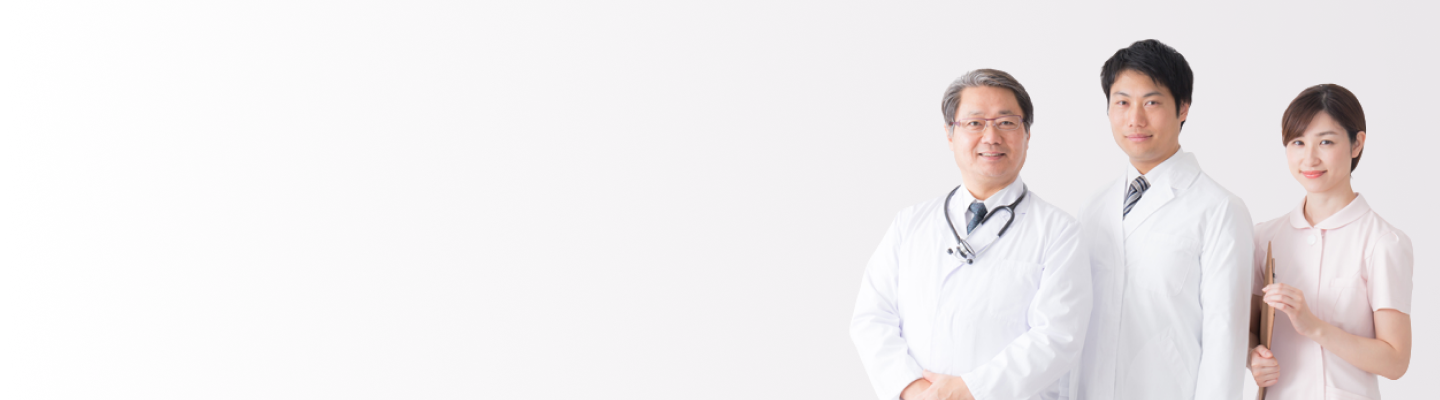
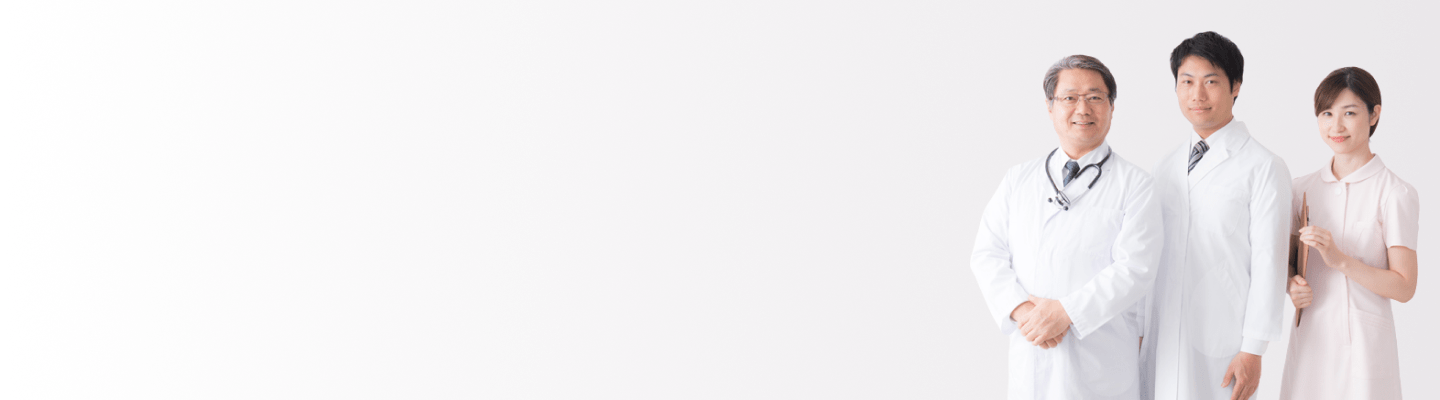
DRG-76248 [SA LP] - First round UAT UI fixes

Changed region(s): [[0.625, 0.06, 1.0, 1.0]]

diff --git a/apps/japan/src/app/components/our-promise/our-promise.tsx b/apps/japan/src/app/components/our-promise/our-promise.tsx
@@ -45,27 +45,29 @@ export function OurPromise() {
         {params.heading && (
           <h2 className="text-center mb-10 sm:text-xxl sm:leading-8 sm:mb-4 sm:font-black">{params.heading} </h2>
         )}
-        <section className="container flex justify-center max-w-6xl mx-auto sm:block">
-        {params?.image && (
-          <div className="flex items-center sm:block">
-            <div
-              className="w-52 h-52 bg-cover bg-no-repeat mr-8 sm:block sm:m-auto sm:mb-10 sm:w-37.5 sm:h-37.5 md:w-35 md:h-35 md:mr-2.5"
-              style={{
-                backgroundImage: `url(${params.image})`,
-              }}
-            ></div>
+        <section className="container">
+          <div className=' flex justify-center max-w-6xl mx-auto sm:block'>
+            {params?.image && (
+              <div className="flex items-center sm:block">
+                <div
+                  className="w-52 h-52 bg-cover bg-no-repeat mr-8 sm:block sm:m-auto sm:mb-10 sm:w-37.5 sm:h-37.5 md:w-35 md:h-35 md:mr-2.5"
+                  style={{
+                    backgroundImage: `url(${params.image})`,
+                  }}
+                ></div>
+              </div>
+            )}
+
+            <div className="flex justify-end sm:grid sm:px-0 sm:justify-center">
+              {params.cards.map((card, index) => (
+                <PromiseCard key={index} card={card}></PromiseCard>
+              ))}
+            </div>
+            <div className="clearfix"></div>
           </div>
-        )}
-        
-        <div className="flex justify-end sm:grid sm:px-0 sm:justify-center">
-          {params.cards.map((card, index) => (
-            <PromiseCard key={index} card={card}></PromiseCard>
-          ))}
-        </div>
-        <div className="clearfix"></div>
-      </section>
+        </section>
       </div>
-      
+
     </>
   );
 }

diff --git a/apps/japan/src/app/components/journal-ruby/journal-ruby.tsx b/apps/japan/src/app/components/journal-ruby/journal-ruby.tsx
@@ -77,7 +77,7 @@ export function JournalRuby({ searchText }: { searchText: string }) {
                       backgroundImage: `url(${journal.image})`,
                     }}
                   >
-                    <div className="px-2.5 mt-3 bg-white w-full">
+                    <div className="px-2.5 mt-3 pt-1 bg-white w-full">
                       <h2 className="font-sb text-ruby-alpha text-base min-h-[3rem]">{journal.name}</h2>
                       <p className="font-sb text-13 leading-8 text-pearl-beta">
                         {params.journalLabel}
